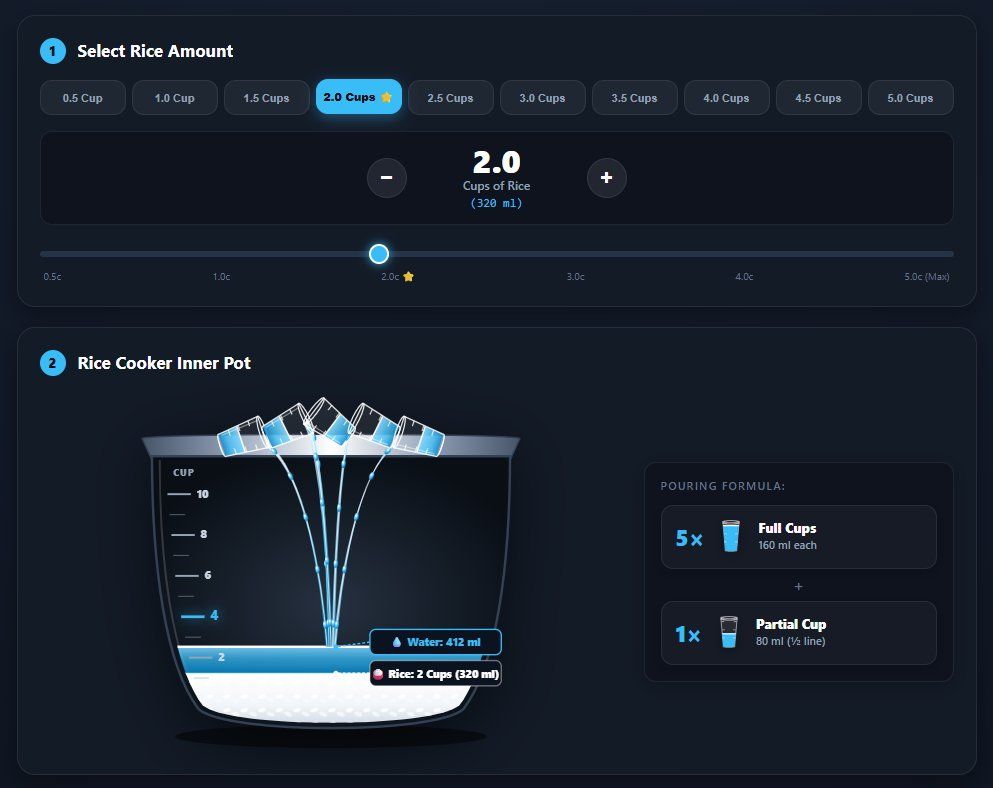
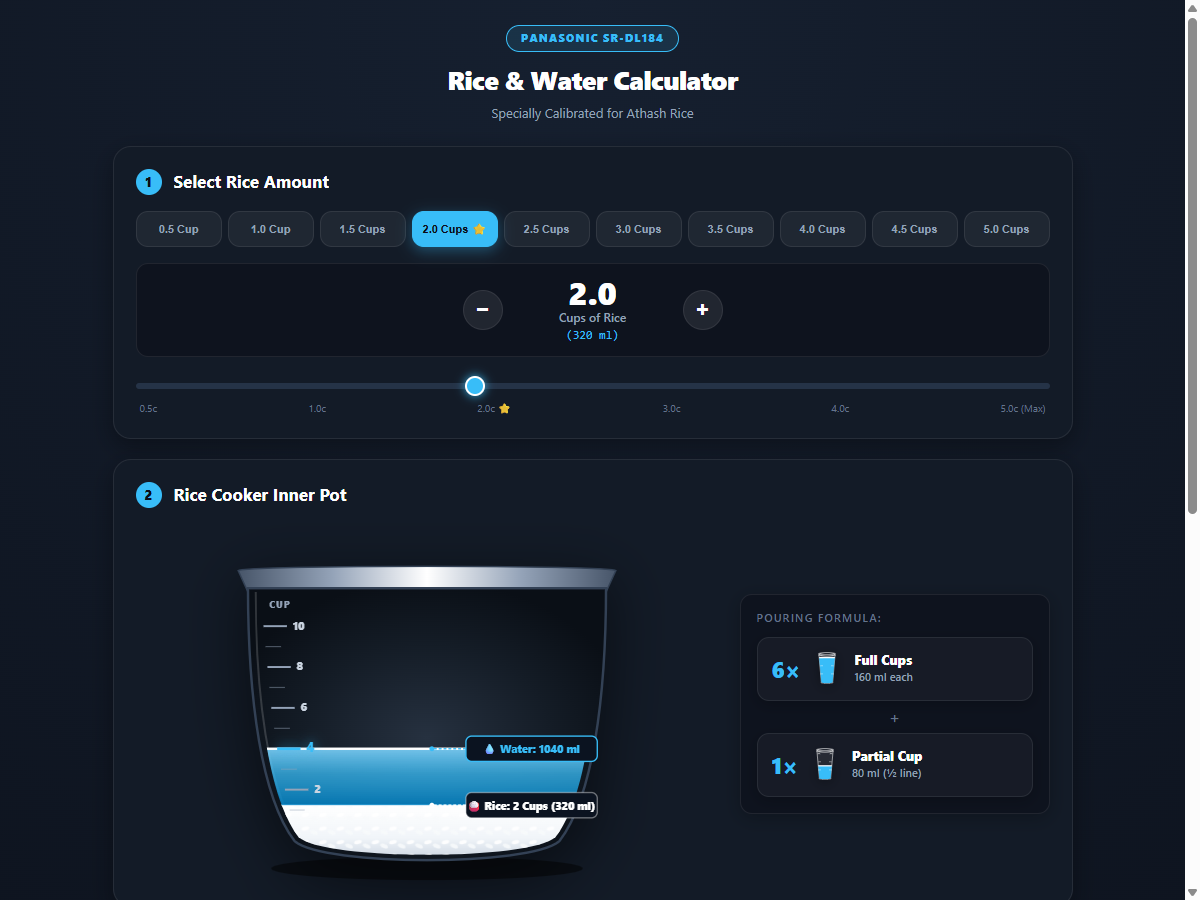
fix: update Athash ratio to 3.25 (6.5 cups / 1040ml water for 2 cups rice levels at Line 4)

diff --git a/js/app.js b/js/app.js
@@ -5,7 +5,7 @@
  */
 
 const CUP_CAPACITY_ML = 160;
-const WATER_RATIO = 2.75; // 880 ml water for 2 cups rice (440 ml/cup)
+const WATER_RATIO = 3.25; // 1040 ml (6.5 cups) water for 2 cups rice (520 ml/cup) -> Reaches Line 4 accurately!
 const CHEATSHEET_DATA = [0.5, 1.0, 1.5, 2.0, 2.5, 3.0, 3.5, 4.0, 4.5, 5.0];
 
 let selectedRiceCups = 2.0;

diff --git a/README.md b/README.md
@@ -7,7 +7,7 @@
 
 > [!IMPORTANT]
 > **Specially Calibrated for Athash Rice (BR-28 / আঠাশ চাল)**:  
-> Athash is a beloved medium-slender grain known for its thirst! In the Panasonic SR-DL184 Binchotan inner pot, it thrives on an exact **$2.75\times$ water-to-rice volume ratio** ($440\text{ ml}$ water per standard $160\text{ ml}$ rice cup). This calculator is custom-tailored specifically for Athash Rice to yield fluffy, individual, non-sticky grains with zero pot scorching.
+> Athash is a beloved medium-slender grain known for its thirst! In the Panasonic SR-DL184 Binchotan inner pot, it thrives on an exact **$3.25\times$ water-to-rice volume ratio** ($520\text{ ml}$ water per standard $160\text{ ml}$ rice cup). With this real-world calibrated ratio, 2 cups of rice + 6.5 cups of water ($1040\text{ ml}$) levels precisely at **Line 4**, and 5 cups of rice reaches **Line 10 (Pot Max Capacity)**!
 
 ---
 
@@ -16,9 +16,9 @@
 You bought a gorgeous **Panasonic SR-DL184 10-Cup (1.8L)** rice cooker. You grabbed the included **160 ml clear plastic measuring cup**. You set out to cook 2 cups of Athash rice.
 
 You check the cookbook, you check the pot's stamped gauge lines, and suddenly you're doing fractional kitchen calculus at 7:00 PM on a hungry stomach:
-- *Wait, 2 cups of Athash rice needs 880 ml of water?*
-- *880 ml ÷ 160 ml per cup = 5.5 cups?*
-- *How do I measure exactly half of a 160ml cup without a laboratory scale?*
+- *Wait, 2 cups of Athash rice needs 1040 ml of water (6.5 cups)?*
+- *How do I measure 6.5 cups of water with a 160ml cup without guessing?*
+- *Which line on the pot should it reach? (Line 4 accurately!)*
 
 **Never do kitchen mental math again.** This mini web app turns Athash rice cooking into a delightfully visual, 60fps physics spectacle!
 
@@ -35,7 +35,7 @@ You check the cookbook, you check the pot's stamped gauge lines, and suddenly yo
 ### 2. 🫗 "Full Cups" + "Partial Cup" Formula
 - Minimalist, unbolded cards right beside the pot.
 - Instantly tells you:
-  $$\mathbf{5\times \text{ Full Cups (160 ml)}} \;+\; \mathbf{1\times \text{ Partial Cup (80 ml / ½ line)}} = \mathbf{880\text{ ml}}$$
+  $$\mathbf{6\times \text{ Full Cups (160 ml)}} \;+\; \mathbf{1\times \text{ Partial Cup (80 ml / ½ line)}} = \mathbf{1040\text{ ml}}$$
 - No guessing which mark to hit!
 
 ### 3. 🛡 Anti-Collision Smart HUD Badges
@@ -52,20 +52,20 @@ You check the cookbook, you check the pot's stamped gauge lines, and suddenly yo
 
 ## 🍳 The Athash Rice Golden Ratio Reference
 
-Based on the calibrated Panasonic 10-cup pot ratio ($2.75\times$ water volume to rice volume, hitting pot gauge line $2\times$ cups):
+Based on the calibrated Panasonic 10-cup pot ratio ($3.25\times$ water volume to rice volume, hitting pot gauge line $2\times$ cups):
 
 | Rice (Cups) | Rice Volume | Water Needed | How To Measure (160ml Cup) | Pot Level Line |
 |:---:|:---:|:---:|:---|:---:|
-| **0.5 Cup** | 80 ml | 220 ml | `1 Full Cup + 1 Partial Cup (60 ml)` | **Line 1** |
-| **1.0 Cup** | 160 ml | 440 ml | `2 Full Cups + 1 Partial Cup (120 ml / ¾ line)` | **Line 2** |
-| **1.5 Cups** | 240 ml | 660 ml | `4 Full Cups + 1 Partial Cup (20 ml)` | **Line 3** |
-| **2.0 Cups ⭐** | 320 ml | 880 ml | `5 Full Cups + 1 Partial Cup (80 ml / ½ line)` | **Line 4** |
-| **2.5 Cups** | 400 ml | 1100 ml | `6 Full Cups + 1 Partial Cup (140 ml)` | **Line 5** |
-| **3.0 Cups** | 480 ml | 1320 ml | `8 Full Cups + 1 Partial Cup (40 ml / ¼ line)` | **Line 6** |
-| **3.5 Cups** | 560 ml | 1540 ml | `9 Full Cups + 1 Partial Cup (100 ml)` | **Line 7** |
-| **4.0 Cups** | 640 ml | 1760 ml | `11 Full Cups (No Partial Cup!)` | **Line 8** |
-| **4.5 Cups** | 720 ml | 1980 ml | `12 Full Cups + 1 Partial Cup (60 ml)` | **Line 9** |
-| **5.0 Cups** | 800 ml | 2200 ml | `13 Full Cups + 1 Partial Cup (120 ml / ¾ line)` | **Line 10 (Max)** |
+| **0.5 Cup** | 80 ml | 260 ml | `1 Full Cup + 1 Partial Cup (100 ml)` | **Line 1** |
+| **1.0 Cup** | 160 ml | 520 ml | `3 Full Cups + 1 Partial Cup (40 ml / ¼ line)` | **Line 2** |
+| **1.5 Cups** | 240 ml | 780 ml | `4 Full Cups + 1 Partial Cup (140 ml)` | **Line 3** |
+| **2.0 Cups ⭐** | 320 ml | 1040 ml | `6 Full Cups + 1 Partial Cup (80 ml / ½ line)` | **Line 4** |
+| **2.5 Cups** | 400 ml | 1300 ml | `8 Full Cups + 1 Partial Cup (20 ml)` | **Line 5** |
+| **3.0 Cups** | 480 ml | 1560 ml | `9 Full Cups + 1 Partial Cup (120 ml / ¾ line)` | **Line 6** |
+| **3.5 Cups** | 560 ml | 1820 ml | `11 Full Cups + 1 Partial Cup (60 ml)` | **Line 7** |
+| **4.0 Cups** | 640 ml | 2080 ml | `13 Full Cups (No Partial Cup!)` | **Line 8** |
+| **4.5 Cups** | 720 ml | 2340 ml | `14 Full Cups + 1 Partial Cup (100 ml)` | **Line 9** |
+| **5.0 Cups** | 800 ml | 2600 ml | `16 Full Cups + 1 Partial Cup (40 ml / ¼ line)` | **Line 10 (Max)** |
 
 ---
 
